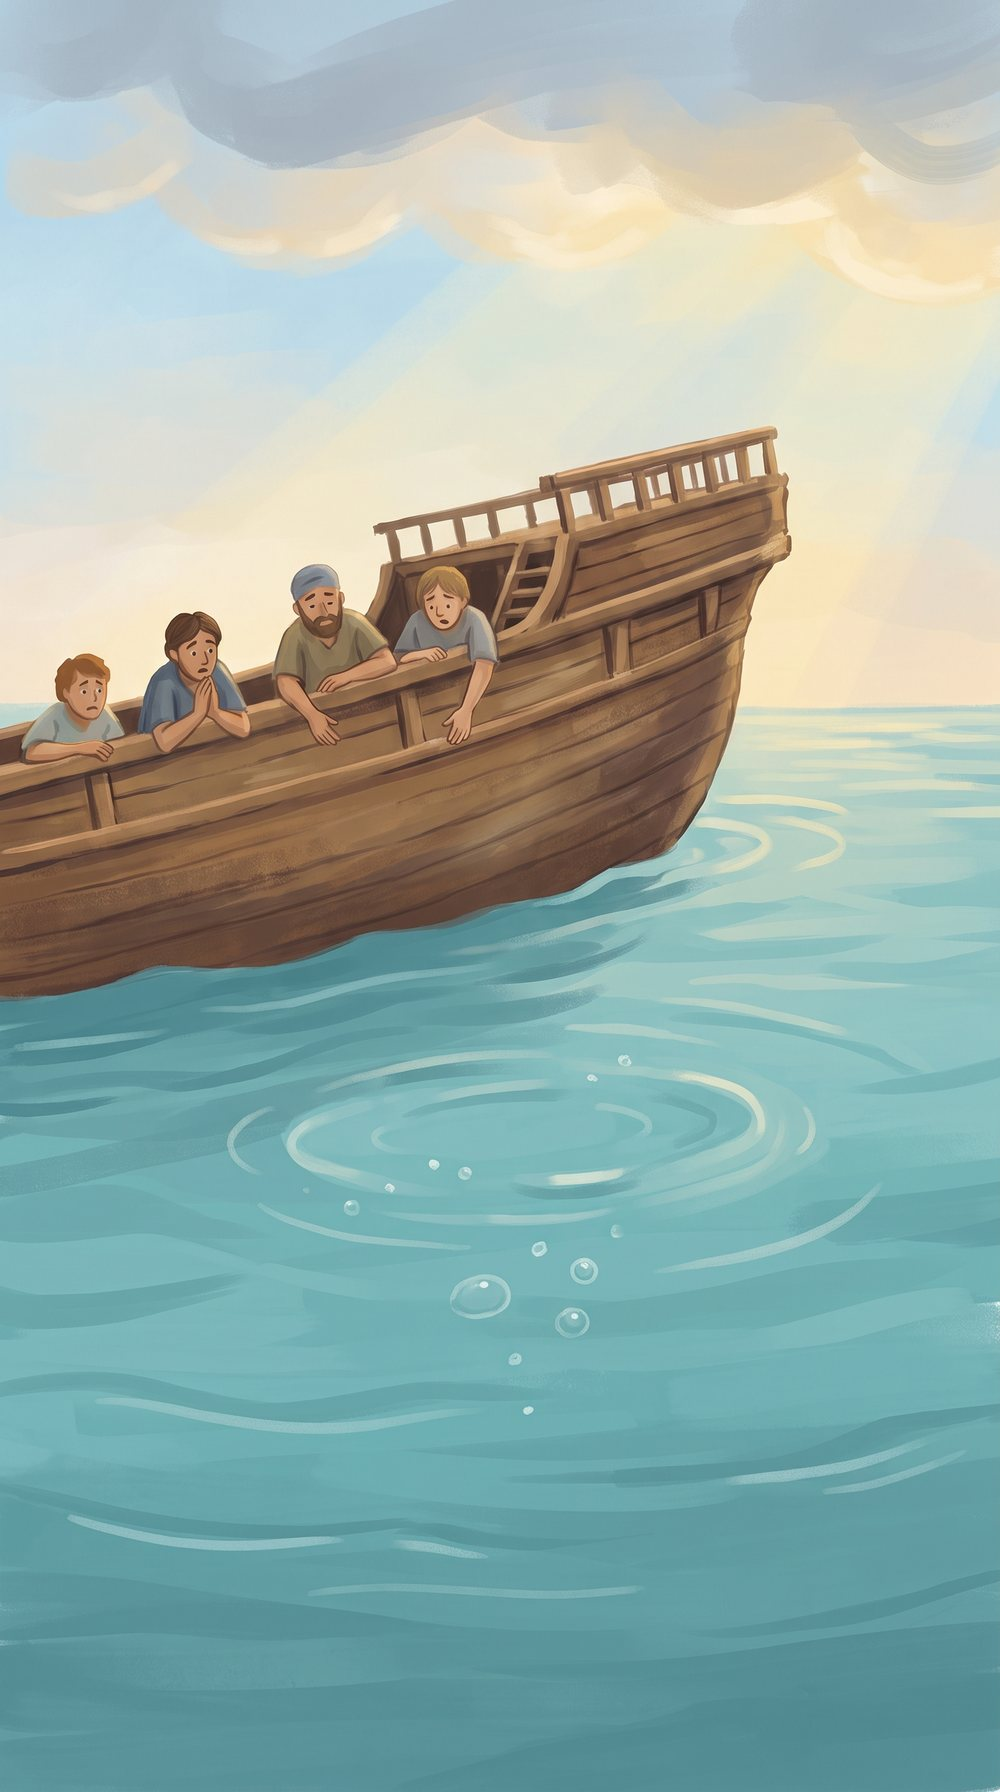
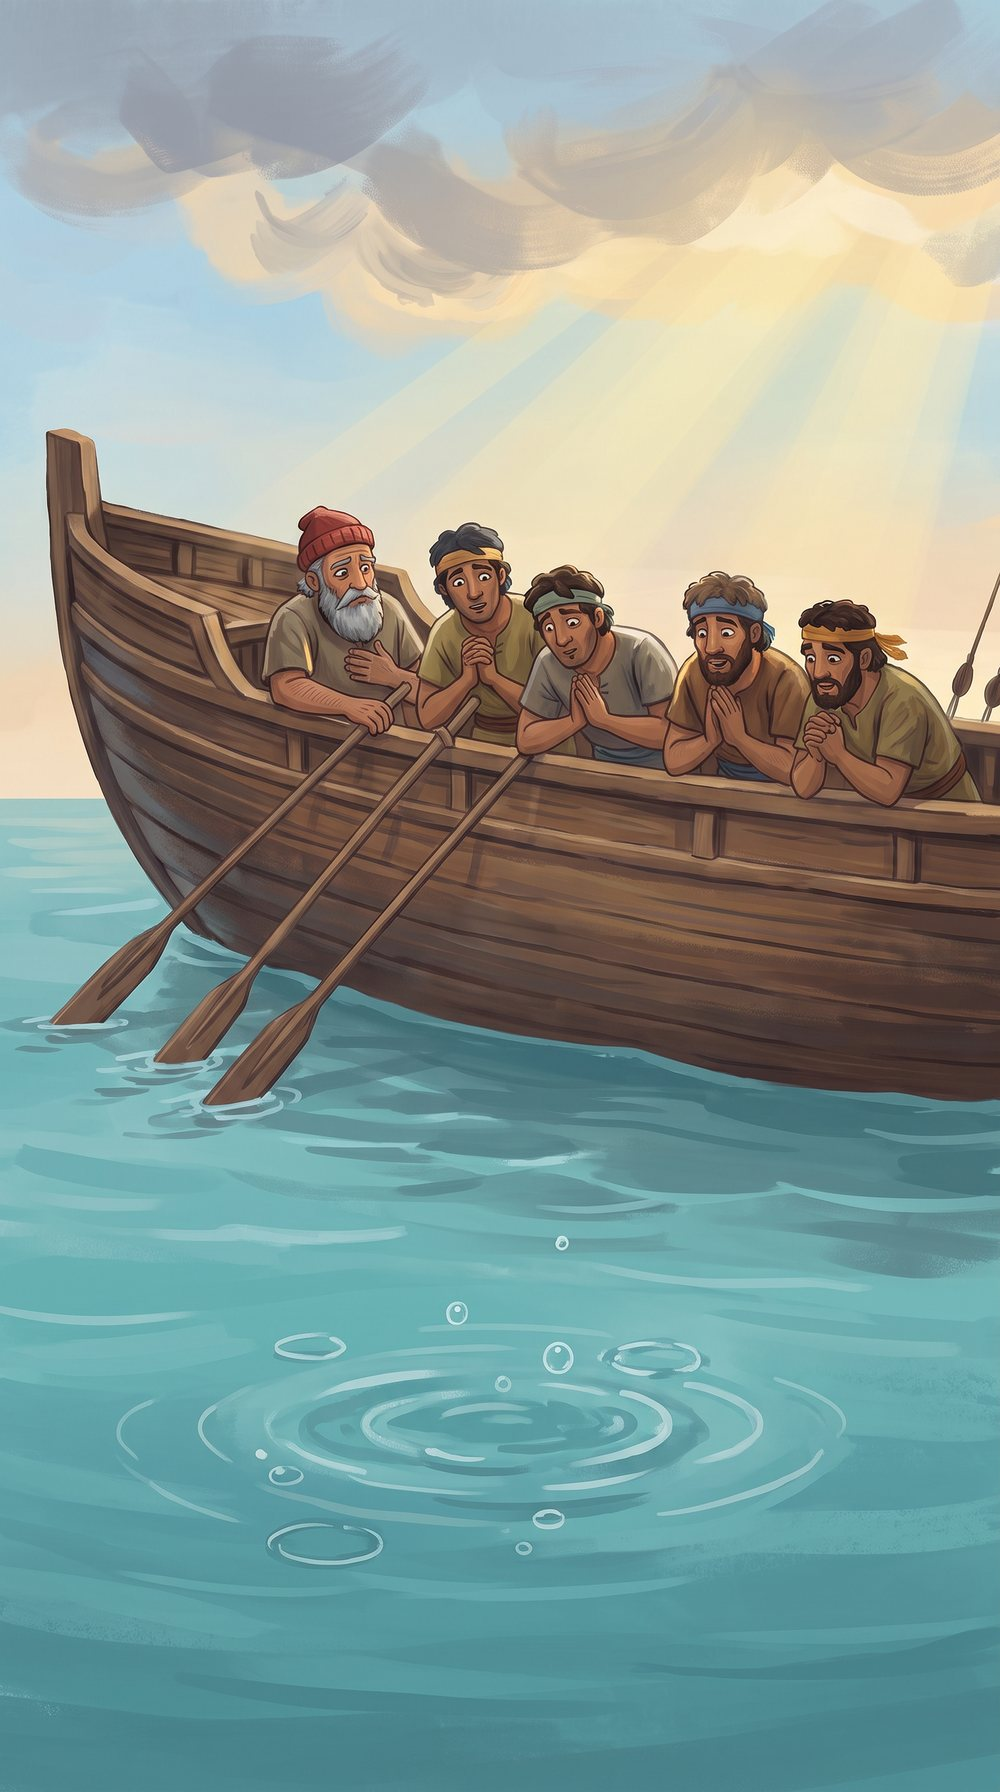
Jonas: the overboard scene keeps the same ship, crew and style; a bigger great fish that swims in 3D

diff --git a/contes/jonas/app.js b/contes/jonas/app.js
@@ -4,7 +4,7 @@
 // rows, calms the sea, steers the great fish, counts the three nights, tickles the fish, walks across Nineveh, shouts
 // with him (microphone or a button), dresses the king, grows the plant, finds the worm and lights up the city.
 // Every phone gesture has a mouse or keyboard twin, and the microphone always has a button to fall back on.
-import { PANELS, TITLE, WHO, AFTER_BRANCH } from './story.js?v=202610271400';
+import { PANELS, TITLE, WHO, AFTER_BRANCH } from './story.js?v=202610271800';
 
 import { goFull, keepFull, iosTip } from '../fs.js?v=202610270300';
 const $ = (id) => document.getElementById(id);
@@ -432,23 +432,44 @@ const acts = {
     const stop = drag({ down: brush, move: (p, down) => down && brush(p) });
     keyAct = (e, down) => { if (down && e.key === ' ') { const y = a.box[1] + Math.random() * (a.box[3] - a.box[1]); for (let x = 0; x <= 1; x += 0.08) brush([x, y]); return true; } };
   }),
-  // the great fish follows the finger (or the arrow keys) through the water; its mouth on Jonah: gulp!
+  // the great fish follows the finger (or the arrow keys) through the water, as if in 3D: it turns round in depth when
+  // it changes direction, tilts its nose up and down, grows a little when it comes closer, swishes its tail faster the
+  // faster it swims and leaves a trail of bubbles; touched, it wiggles. Its mouth on Jonah: it lunges, gulp!
   fish: (a) => new Promise(async (res) => {
-    hint(T.fish); const g0 = gen; const el = document.createElement('img'); el.src = 'art/fish.png'; el.className = 'fish'; el.style.width = '88%'; $('spots').append(el);
-    let pos = [...a.start], goal = [...a.start], face = 1, last = performance.now(), done = false, gone = 0, lastB = 0;
-    const stop = drag({ hover: true, down: (p) => (goal = p), move: (p) => (goal = p) });
-    keyAct = (e, down) => { if (!down) return; if (e.key === ' ') { goal = [a.at[0] - 0.38, a.at[1]]; return true; } const d = { ArrowLeft: [-0.06, 0], ArrowRight: [0.06, 0], ArrowUp: [0, -0.04], ArrowDown: [0, 0.04] }[e.key]; if (!d) return; goal = [Math.max(0, Math.min(1, goal[0] + d[0])), Math.max(0.1, Math.min(0.95, goal[1] + d[1]))]; return true; };
+    hint(T.fish); const g0 = gen;
+    const box = document.createElement('div'); box.className = 'fishbox'; $('spots').append(box);
+    const body = document.createElement('img'), tail = document.createElement('img'); body.src = tail.src = 'art/fish.png'; body.className = 'fbody'; tail.className = 'ftail'; box.append(tail, body);
+    let pos = [...a.start], goal = [...a.start], vel = [0, 0], face = 1, turn = 0, pitch = 0, wag = 0, last = performance.now(), done = false, gone = 0, lunge = 0, wiggle = 0, lastB = 0; const bub = [];
+    const stop = drag({ hover: true, down: (p) => { goal = p; if (Math.hypot(p[0] - pos[0], p[1] - pos[1]) < 0.2) { wiggle = 1; sfx('bloop', 0.6); } }, move: (p) => (goal = p) });
+    keyAct = (e, down) => { if (!down) return; if (e.key === ' ') { goal = [a.at[0] - 0.42, a.at[1]]; return true; } const d = { ArrowLeft: [-0.07, 0], ArrowRight: [0.07, 0], ArrowUp: [0, -0.05], ArrowDown: [0, 0.05] }[e.key]; if (!d) return; goal = [Math.max(-0.1, Math.min(1.1, goal[0] + d[0])), Math.max(0.12, Math.min(0.92, goal[1] + d[1]))]; return true; };
     const frame = (now) => {
       if (gen !== g0) return; const dt = Math.min(0.05, (now - last) / 1000); last = now;
-      if (gone) { pos[0] += dt * 0.5; el.style.opacity = String(Math.max(0, 1 - (now - gone) / 1500)); }
-      else { const dx = goal[0] - pos[0], dy = goal[1] - pos[1]; pos[0] += dx * Math.min(1, dt * 2.2); pos[1] += dy * Math.min(1, dt * 2.2); if (Math.abs(dx) > 0.02) face = dx > 0 ? 1 : -1; }
-      const bob = Math.sin(now / 400) * 0.008, mouth = [pos[0] + face * 0.38, pos[1] + 0.01];
-      el.style.left = pos[0] * 100 + '%'; el.style.top = (pos[1] + bob) * 100 + '%'; el.style.transform = `translate(-50%,-50%) scaleX(${face}) rotate(${Math.sin(now / 300) * 3}deg)`;
-      if (now - lastB > 300) { lastB = now; burst(pos[0] - face * 0.4, pos[1] - 0.03, 3, 190); }
-      if (!done && near(mouth, a.at, 0.11)) {
-        done = true; stop(); keyAct = null; hint(''); sfx('gulp'); buzz([60, 30, 120]); swapArt(a.after); burst(a.at[0], a.at[1], 50, 190); word(lang === 'fr' ? 'GLOUPS !' : 'GULP!', [a.at[0], a.at[1] - 0.15]);
-        setTimeout(() => { sfx('bubbles'); gone = performance.now(); face = 1; }, 900); setTimeout(() => { if (gen === g0) { el.remove(); res(); } }, 2600);
+      if (gone) goal = [pos[0] + 1, pos[1] - 0.05];
+      // a soft spring towards the finger, so it glides and overshoots a little, like swimming
+      const ax = (goal[0] - pos[0]) * 7 - vel[0] * 3.2, ay = (goal[1] - pos[1]) * 7 - vel[1] * 3.2;
+      vel[0] += ax * dt; vel[1] += ay * dt; pos[0] += vel[0] * dt; pos[1] += vel[1] * dt;
+      const sp = Math.hypot(vel[0], vel[1]);
+      if (Math.abs(vel[0]) > 0.05) face = vel[0] > 0 ? 1 : -1;
+      turn += ((face > 0 ? 0 : 180) - turn) * Math.min(1, dt * 7); // the turn in depth, through the side view
+      pitch += (Math.max(-28, Math.min(28, Math.atan2(vel[1], Math.abs(vel[0]) + 0.05) * 57)) - pitch) * Math.min(1, dt * 5);
+      wag += dt * (5 + sp * 22); wiggle = Math.max(0, wiggle - dt * 1.8); lunge = Math.max(0, lunge - dt * 2.5);
+      const depth = 0.9 + pos[1] * 0.25, stretch = 1 + Math.min(0.08, sp * 0.12) + lunge * 0.18, bob = Math.sin(now / 420) * 0.01;
+      const rz = pitch * (face > 0 ? 1 : -1) + Math.sin(now / 160) * wiggle * 9;
+      box.style.left = pos[0] * 100 + '%'; box.style.top = (pos[1] + bob) * 100 + '%';
+      box.style.transform = `translate(-50%,-50%) perspective(900px) rotateY(${turn.toFixed(1)}deg) rotateZ(${(face > 0 ? rz : -rz).toFixed(1)}deg) scale(${(depth * stretch).toFixed(3)}, ${(depth * (1 - lunge * 0.06)).toFixed(3)})`;
+      tail.style.transform = `perspective(500px) rotateY(${(Math.sin(wag) * (18 + sp * 30)).toFixed(1)}deg)`;
+      // bubbles from the gills, rising and wobbling
+      const mouthOff = 0.42 * depth, ang = pitch * Math.PI / 180, mouth = [pos[0] + face * mouthOff * Math.cos(ang), pos[1] + mouthOff * Math.sin(ang) * 0.56];
+      if (now - lastB > (sp > 0.2 ? 90 : 260)) { lastB = now; bub.push({ x: pos[0] + face * 0.18, y: pos[1] - 0.02, r: 2 + Math.random() * 5, t: now, s: Math.random() * 6 }); }
+      L.clearRect(0, 0, FW, FH); L.lineWidth = 1.5;
+      for (const b of bub) { const k = (now - b.t) / 1800; b.y -= dt * 0.08; const x = (b.x + Math.sin(now / 300 + b.s) * 0.01) * FW; L.strokeStyle = `rgba(235,250,255,${0.8 * (1 - k)})`; L.fillStyle = `rgba(255,255,255,${0.15 * (1 - k)})`; L.beginPath(); L.arc(x, b.y * FH, b.r, 0, 7); L.fill(); L.stroke(); L.fillStyle = `rgba(255,255,255,${0.7 * (1 - k)})`; L.beginPath(); L.arc(x - b.r * 0.35, b.y * FH - b.r * 0.35, b.r * 0.3, 0, 7); L.fill(); }
+      for (let i = bub.length - 1; i >= 0; i--) if (now - bub[i].t > 1800) bub.splice(i, 1);
+      if (!done && (near(mouth, a.at, 0.15) || near([pos[0] + face * 0.3 * depth, pos[1]], a.at, 0.12))) { // the mouth, or the big head, on Jonah
+        done = true; stop(); keyAct = null; hint(''); lunge = 1; sfx('gulp'); buzz([60, 30, 120]); swapArt(a.after); burst(a.at[0], a.at[1], 50, 190); word(lang === 'fr' ? 'GLOUPS !' : 'GULP!', [a.at[0], a.at[1] - 0.18]);
+        setTimeout(() => { wiggle = 1; sfx('bubbles'); for (let i = 0; i < 14; i++) bub.push({ x: a.at[0] + (Math.random() - 0.5) * 0.1, y: a.at[1], r: 3 + Math.random() * 7, t: performance.now(), s: Math.random() * 6 }); }, 700);
+        setTimeout(() => { gone = performance.now(); }, 1400); setTimeout(() => { if (gen === g0) { box.remove(); L.clearRect(0, 0, FW, FH); res(); } }, 3200);
       }
+      if (gone) box.style.opacity = String(Math.max(0, 1 - (now - gone) / 1400));
       requestAnimationFrame(frame);
     };
     requestAnimationFrame(frame);
@@ -548,7 +569,7 @@ const acts = {
     const go = () => { if (t0) return; t0 = performance.now(); s.remove(); keyAct = null; hint(''); sfx('leap'); requestAnimationFrame(frame); };
     const frame = (now) => {
       if (gen !== g0) return; const k = Math.min(1, (now - t0) / 1800); L.clearRect(0, 0, FW, FH);
-      const x = (a.at[0] - 0.15 + k * 0.3) * FW, y = a.at[1] * FH - Math.sin(k * Math.PI) * FH * 0.22, w = FW * 0.62, h = w * fish.height / fish.width;
+      const x = (a.at[0] - 0.15 + k * 0.3) * FW, y = a.at[1] * FH - Math.sin(k * Math.PI) * FH * 0.22, w = FW * 0.75, h = w * fish.height / fish.width;
       L.save(); L.translate(x, y); L.rotate(-0.9 + k * 1.8); L.drawImage(fish, -w / 2, -h / 2, w, h); L.restore();
       if (k > 0.05 && k < 0.15) burst(a.at[0] - 0.12, a.at[1], 6, 195);
       if (k >= 1) { L.clearRect(0, 0, FW, FH); sfx('splash'); burst(a.at[0] + 0.15, a.at[1], 50, 195); word(a.word[lang], [0.45, 0.4]); setTimeout(() => { if (gen === g0) res(); }, 1400); return; }

diff --git a/contes/jonas/style.css b/contes/jonas/style.css
@@ -191,3 +191,8 @@ body.reading .ambient { opacity: 1; }
 .vign.on { box-shadow: inset 0 0 60px 18px rgba(220, 40, 30, .55); }
 .phase.count { font-size: clamp(30px, 9vw, 46px); color: var(--gold); }
 .choice { white-space: nowrap; max-width: none; }
+/* the great fish: its body and its tail are the same picture cut in two, so the tail can swish in depth */
+.fishbox { position: absolute; width: 100%; aspect-ratio: 900 / 398; pointer-events: none; z-index: 5; filter: drop-shadow(0 14px 14px rgba(0, 30, 50, .35)); will-change: transform; }
+.fishbox img { position: absolute; inset: 0; width: 100%; height: 100%; }
+.fbody { clip-path: inset(0 0 0 26%); }
+.ftail { clip-path: inset(0 72% 0 0); transform-origin: 28% 50%; }

diff --git a/contes/jonas/index.html b/contes/jonas/index.html
@@ -12,7 +12,7 @@
 <meta name="apple-mobile-web-app-status-bar-style" content="black-translucent">
 <meta name="apple-mobile-web-app-title" content="Jonas">
 <link rel="apple-touch-icon" href="../../icon-192.png">
-<link rel="stylesheet" href="style.css?v=202610271400">
+<link rel="stylesheet" href="style.css?v=202610271800">
 </head>
 <body>
 <section id="cover" class="cover">
@@ -40,6 +40,6 @@
   <button id="again" class="btn main" data-t="again"></button>
   <a class="btn" href="../" data-t="more"></a>
 </section>
-<script type="module" src="app.js?v=202610271400"></script>
+<script type="module" src="app.js?v=202610271800"></script>
 </body>
 </html>
